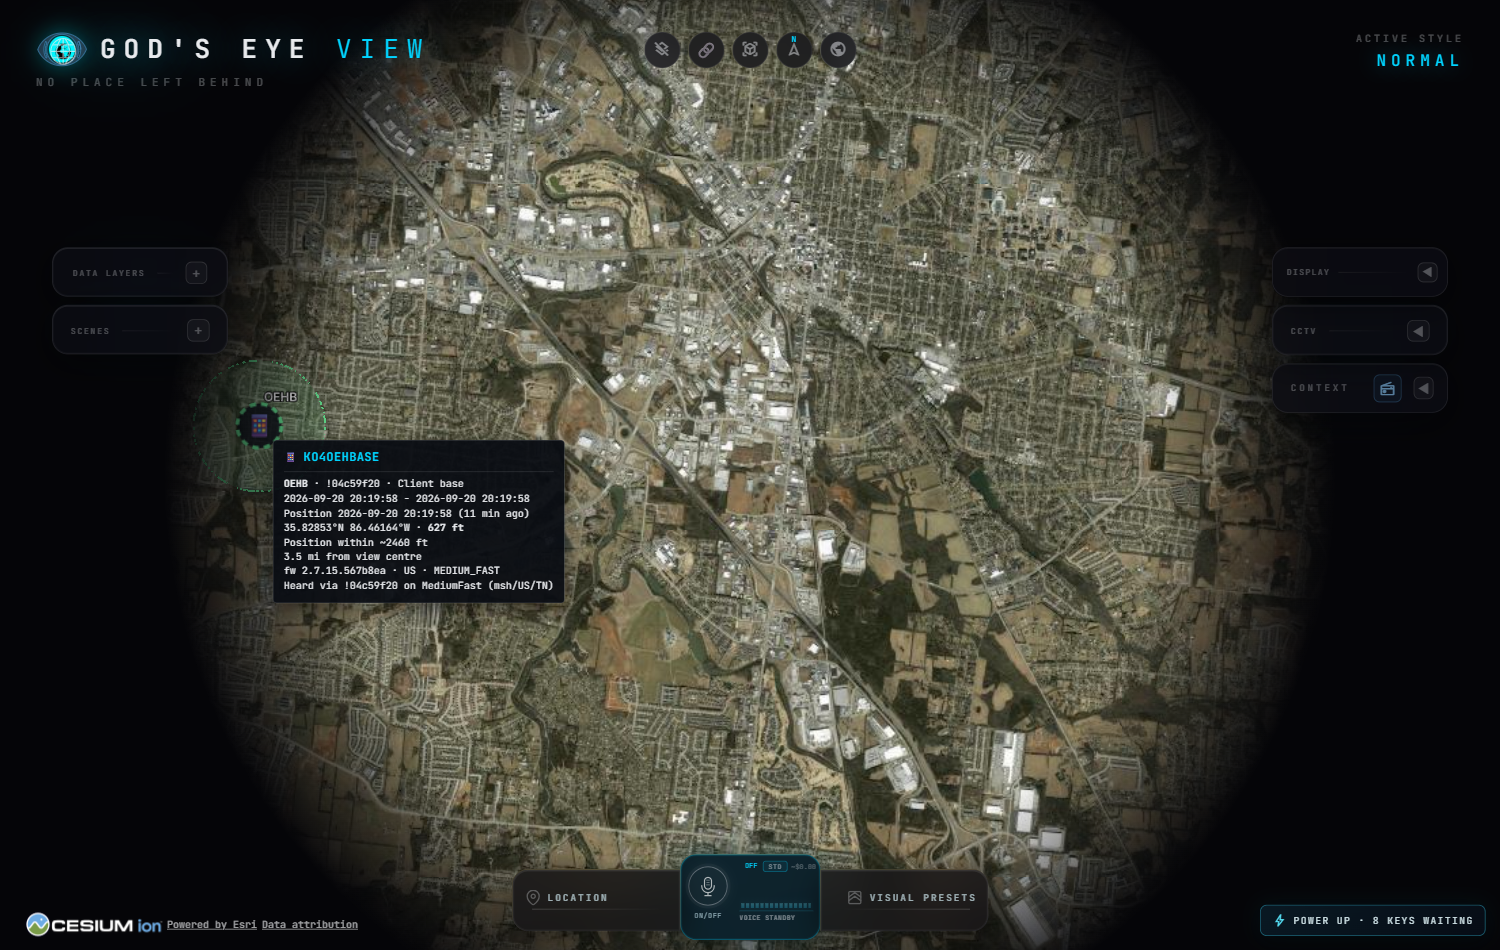
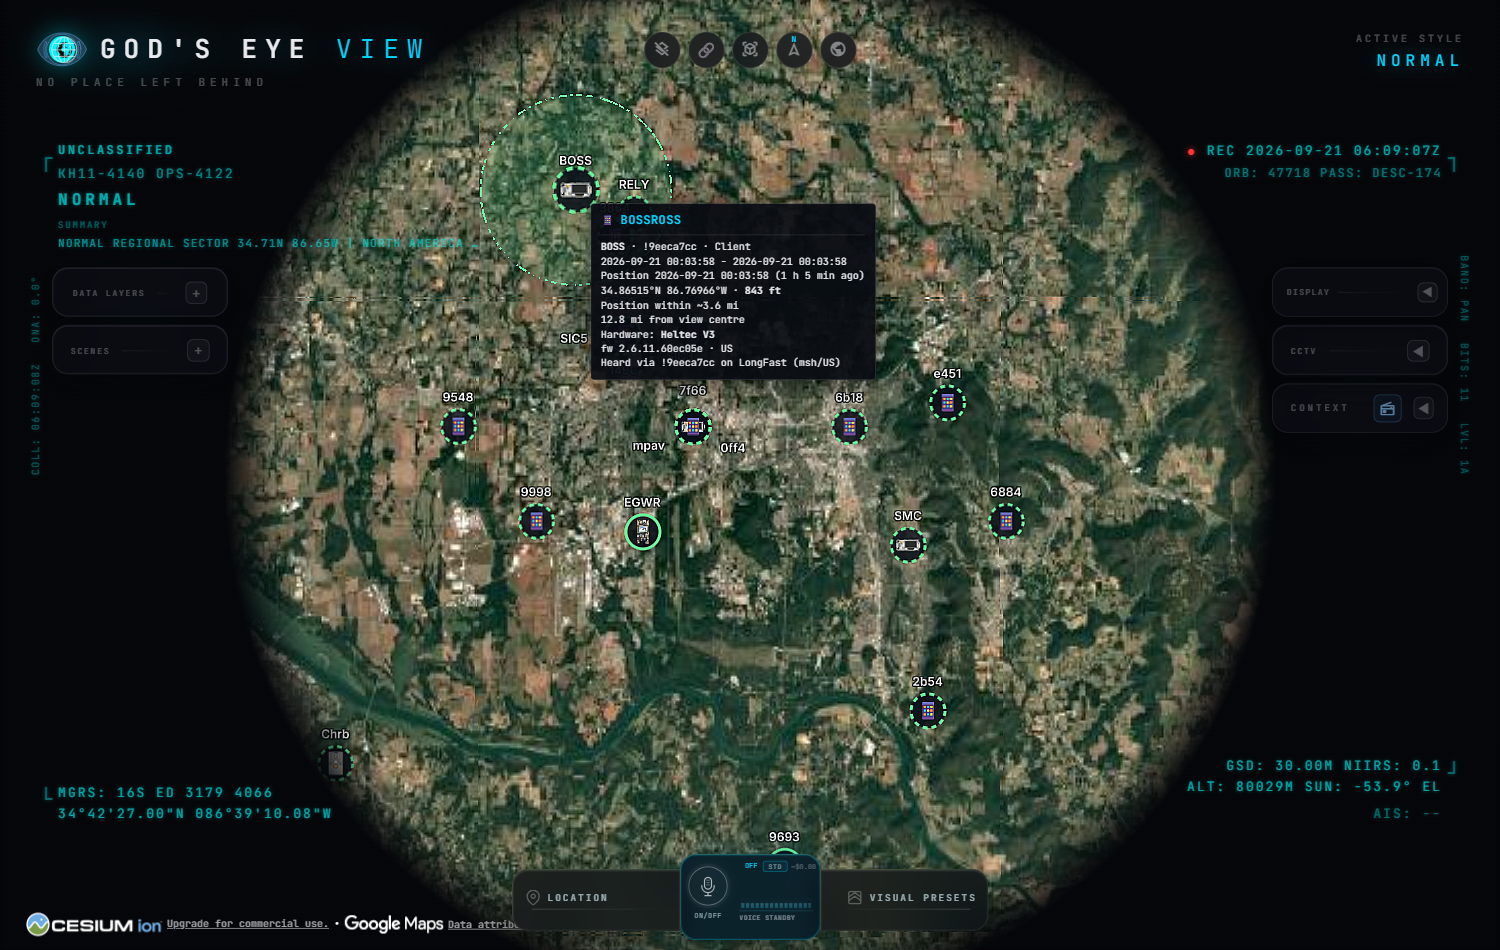
docs: refresh the Meshtastic screenshots and describe device pictures
New globe and ambiguity-ring shots show nodes drawn as their device, the
Hardware line on the card and the fanned-out labels of stacked nodes. The
README now mentions device pictures and stack cycling.

diff --git a/README.md b/README.md
@@ -83,17 +83,19 @@ Set your callsign in `.env` as `APRS_CALLSIGN`; the login passcode is computed f
 
 Every [Meshtastic](https://meshtastic.org/) node whose operator publishes to MQTT, on the globe: positions, names, roles, signal, battery and sensor telemetry, and text messages.
 
-<img src="docs/media/fork/meshtastic-globe.png" alt="Meshtastic nodes around Huntsville, Alabama, ringed by role; a dashed ring marks a position the node's channel has blurred" width="100%">
+<img src="docs/media/fork/meshtastic-globe.png" alt="Meshtastic nodes around Huntsville, Alabama, drawn as their device with their names fanned out around stacked icons; a dashed outline marks a position the node's channel has blurred" width="100%">
 
 - **You choose the brokers.** Data Layers → Meshtastic lists the MQTT servers: the Meshtastic project's public broker and **ALmesh** are there to start with, each with an on/off switch, an editable topic (`msh/US/#`, or `msh/US/AL/#` to narrow it) and a **✕** on its left to delete it. **+ ADD SERVER** takes any other broker (host, port, TLS, login, topic, and optional channel keys for a private channel you have the key for). Nothing connects until you switch a server on.
 - **Always listening, 24 hours.** The server keeps a receive-only MQTT connection to every server that is on, whether or not a browser is open, and stores what it can read for 24 hours (SQLite, `.gev-cache/meshtastic/`). Reads use the network's public default channel key; a channel with a key you have not supplied is skipped, and the row says how many.
 - **Radius, heard within, tracks:** the same controls as the APRS layer, plus a name filter (`HT*, !0af87081`) and a moving-only toggle. Nodes hidden behind the planet are not drawn.
-- **Hover a node** for its card: name, role, when it was heard, position and altitude, signal (SNR, RSSI, hops), battery and voltage, sensors, firmware and radio preset, and which gateway and channel it was heard through. **Click** to pin it, with **CENTER**, **ZOOM**, a highlighted **24 h TRACK**, telemetry charts and its recent messages.
+- **Nodes are drawn as their device** where a picture exists (Heltec, LILYGO, RAK, Seeed, ThinkNode and more, about sixty models); other hardware keeps a role glyph. The pictures are GPL v3 and MIT SVGs from the Meshtastic and MeshCore flashers, with sources and licences in `public/img/`.
+- **Hover a node** for its card: name, role, when it was heard, position and altitude, signal (SNR, RSSI, hops), battery and voltage, sensors, hardware model, firmware and radio preset, and which gateway and channel it was heard through. **Click** to pin it, with **CENTER**, **ZOOM**, a highlighted **24 h TRACK**, telemetry charts and its recent messages.
+- **Stacked nodes:** where icons overlap, their names fan out around the dots, and clicking the stack pins each node in turn (the card says "2 of 5"). APRS stations cycle the same way.
 - **Position ambiguity.** Many nodes run a blurred position and say how blurred in the packet. Those are drawn with a dashed outline, and hovering or pinning one draws a ring on the ground showing the box the node could be anywhere inside.
 - **Message pop-ups** beside the sender for text messages sent inside the radius, like APRS.
 - **Consent is honoured.** A node that has not turned on "OK to MQTT" is not shown (a gateway's own packets excepted: its operator set up the uplink), and the layer never publishes anything.
 
-<img src="docs/media/fork/meshtastic-ambiguity-ring.png" alt="A hovered node with its details card and a ring showing the box its blurred position could be in" width="100%">
+<img src="docs/media/fork/meshtastic-ambiguity-ring.png" alt="A hovered Heltec V3 node with its details card, hardware model included, and a ring showing the box its blurred position could be in" width="100%">
 
 The list of servers and their logins are stored on the server and never sent back to the browser, and any host can be added, so put a shared deployment behind access control. See [DATA_SOURCES.md](DATA_SOURCES.md) and [.env.example](.env.example).
 
